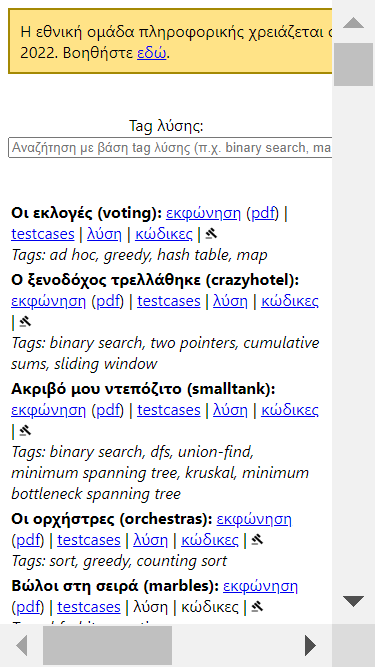
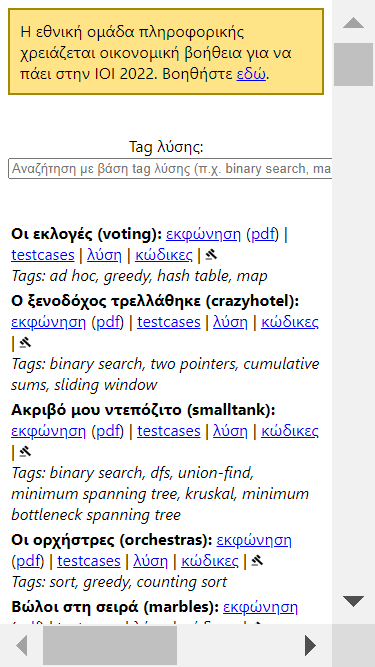
Change width to max-width

Changed region(s): [[0.0293, 0.2999, 0.8507, 1.0], [0.0, 0.0, 0.9093, 0.1499], [0.0293, 0.1799, 0.88, 0.2699]]

diff --git a/css/main.scss b/css/main.scss
@@ -54,7 +54,7 @@ body {
 /* Μορφοποίηση για τα announcements. */
 .announcement {
   margin: auto;
-  width: 600px;
+  max-width: 600px;
   background-color: #FFE387;
   padding: 10px;
   border: 2px solid #a48904;
